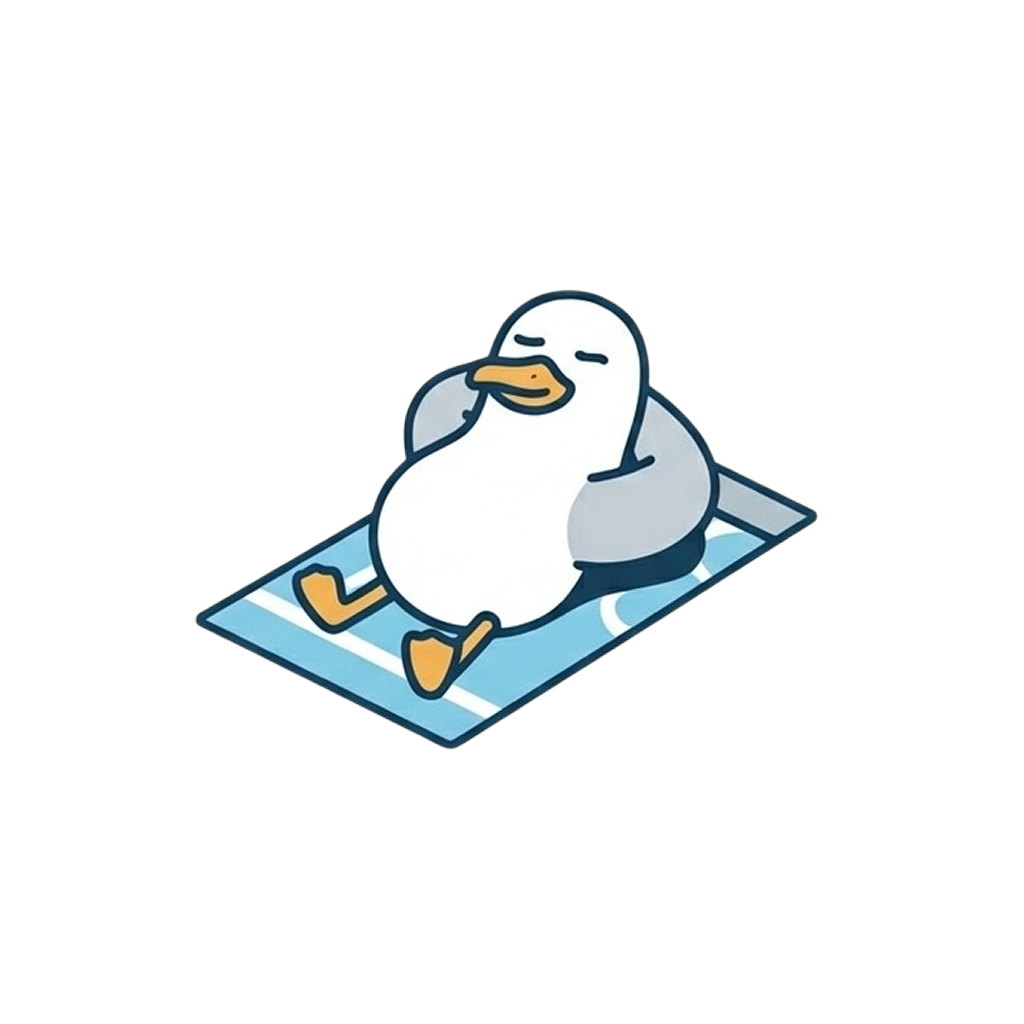
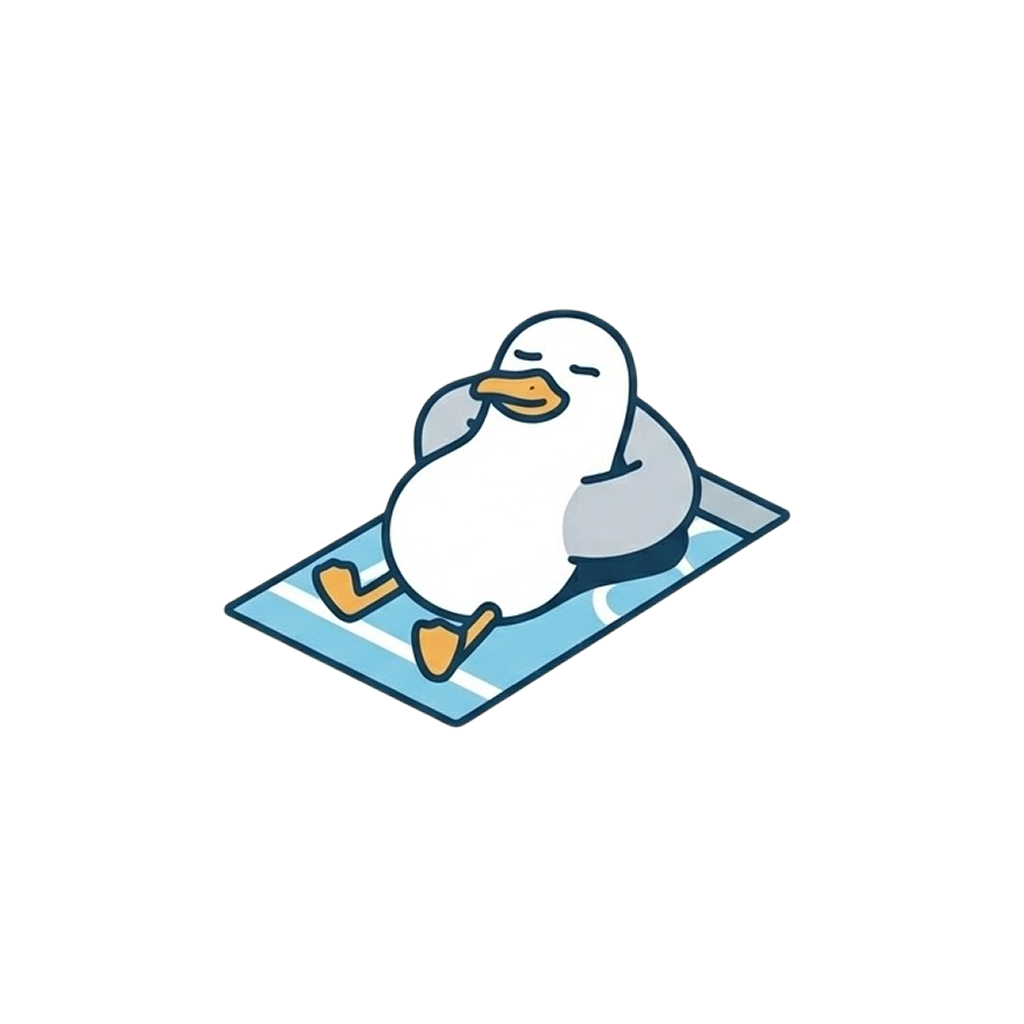
refactor(assets): 로고·레벨 이미지도 src/assets import 방식으로 통일

Changed region(s): [[0.1875, 0.2812, 0.8125, 0.75]]

diff --git a/frontend/src/utils/congestion.ts b/frontend/src/utils/congestion.ts
@@ -1,4 +1,10 @@
 import type { CongestionLevel } from '../types';
+import level00 from '../assets/images/level00.png';
+import level01 from '../assets/images/level01.png';
+import level02 from '../assets/images/level02.png';
+import level03 from '../assets/images/level03.png';
+import level04 from '../assets/images/level04.png';
+import level05 from '../assets/images/level05.png';
 
 // ponytail: 백엔드가 아직 "데이터 없음"을 null 대신 0으로 내려주고 있어 0을 집계중으로 취급한다.
 // 백엔드가 null을 내려주도록 고쳐지면 `rate === 0` 분기는 지우고 null 체크만 남길 것.
@@ -11,8 +17,17 @@ export function getCongestionLevel(rate: number | null): CongestionLevel {
   return 5;
 }
 
+const LEVEL_IMAGES: Record<CongestionLevel, string> = {
+  0: level00,
+  1: level01,
+  2: level02,
+  3: level03,
+  4: level04,
+  5: level05,
+};
+
 export function getLevelImage(level: CongestionLevel): string {
-  return `/images/level0${level}.png`;
+  return LEVEL_IMAGES[level];
 }
 
 export function getLevelColor(level: CongestionLevel): string {

diff --git a/frontend/src/components/Header.tsx b/frontend/src/components/Header.tsx
@@ -1,4 +1,5 @@
 import styles from './Header.module.css';
+import logo from '../assets/images/logo.svg';
 
 export default function Header() {
   const today = new Date().toLocaleDateString('ko-KR', {
@@ -12,7 +13,7 @@ export default function Header() {
     <header className={styles.header}>
       <div className={styles.inner}>
         <a href="/" className={styles.logo}>
-          <img src="/images/logo.svg" alt="부산 눈치게임" className={styles.logoImg} />
+          <img src={logo} alt="부산 눈치게임" className={styles.logoImg} />
         </a>
         <div className={styles.today}>
           <span className={styles.liveDot} />
